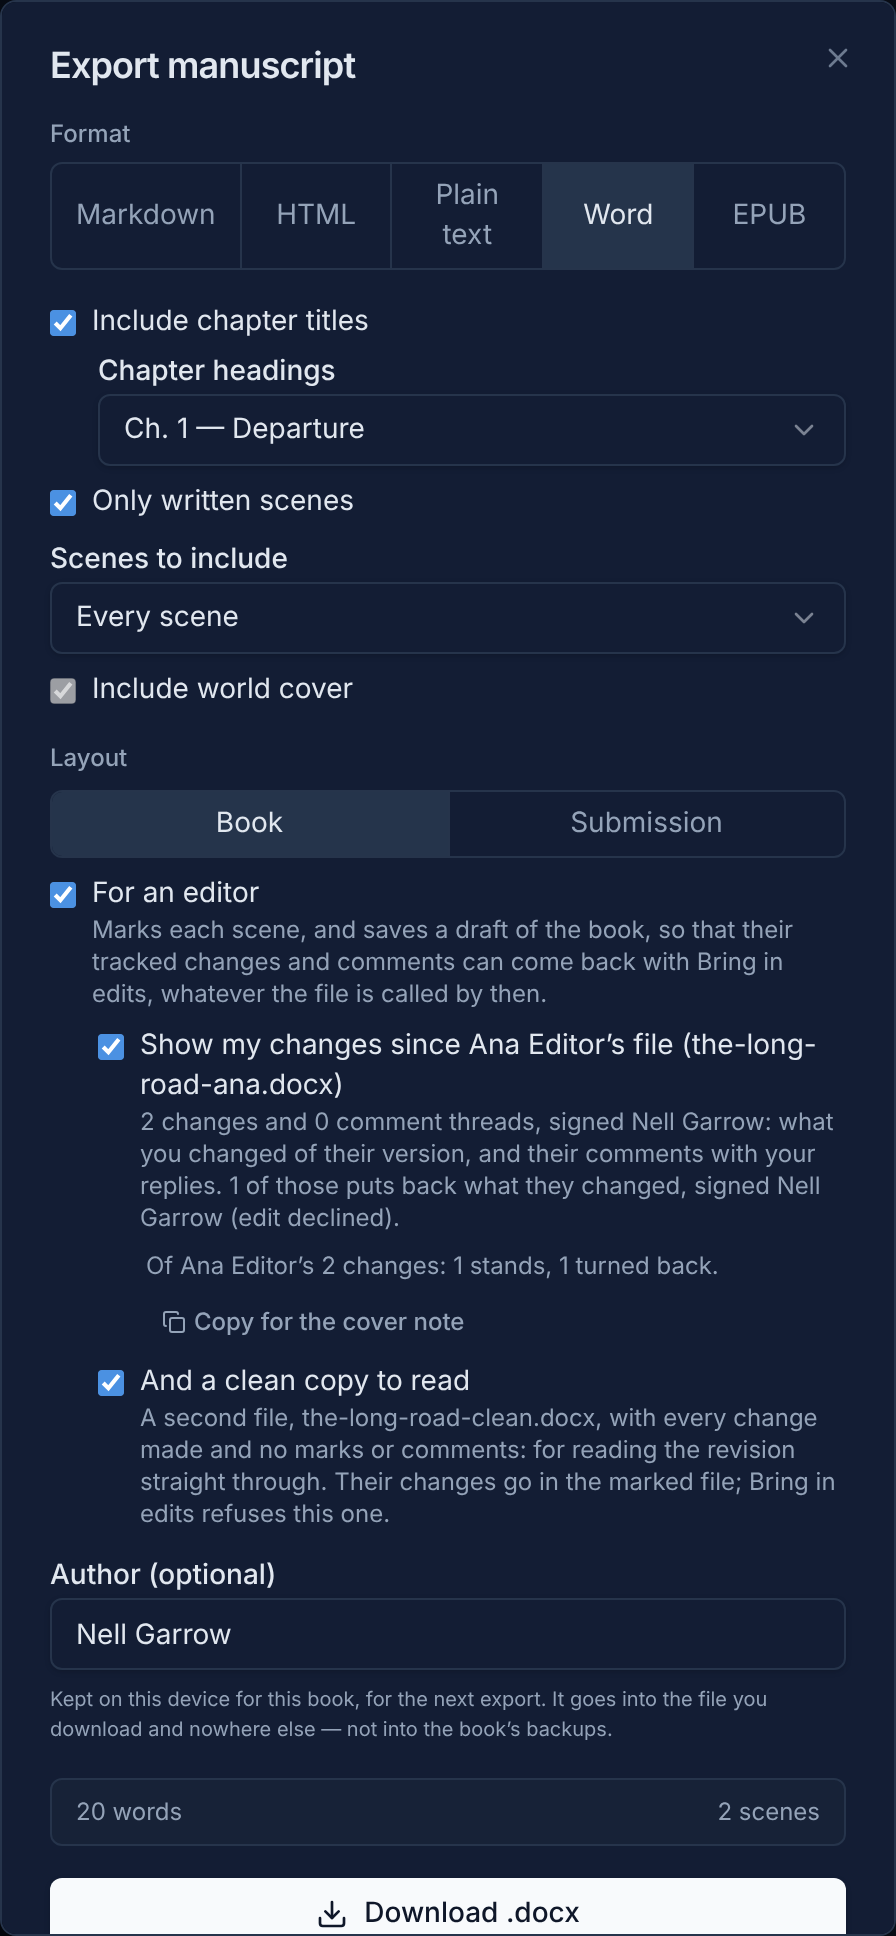
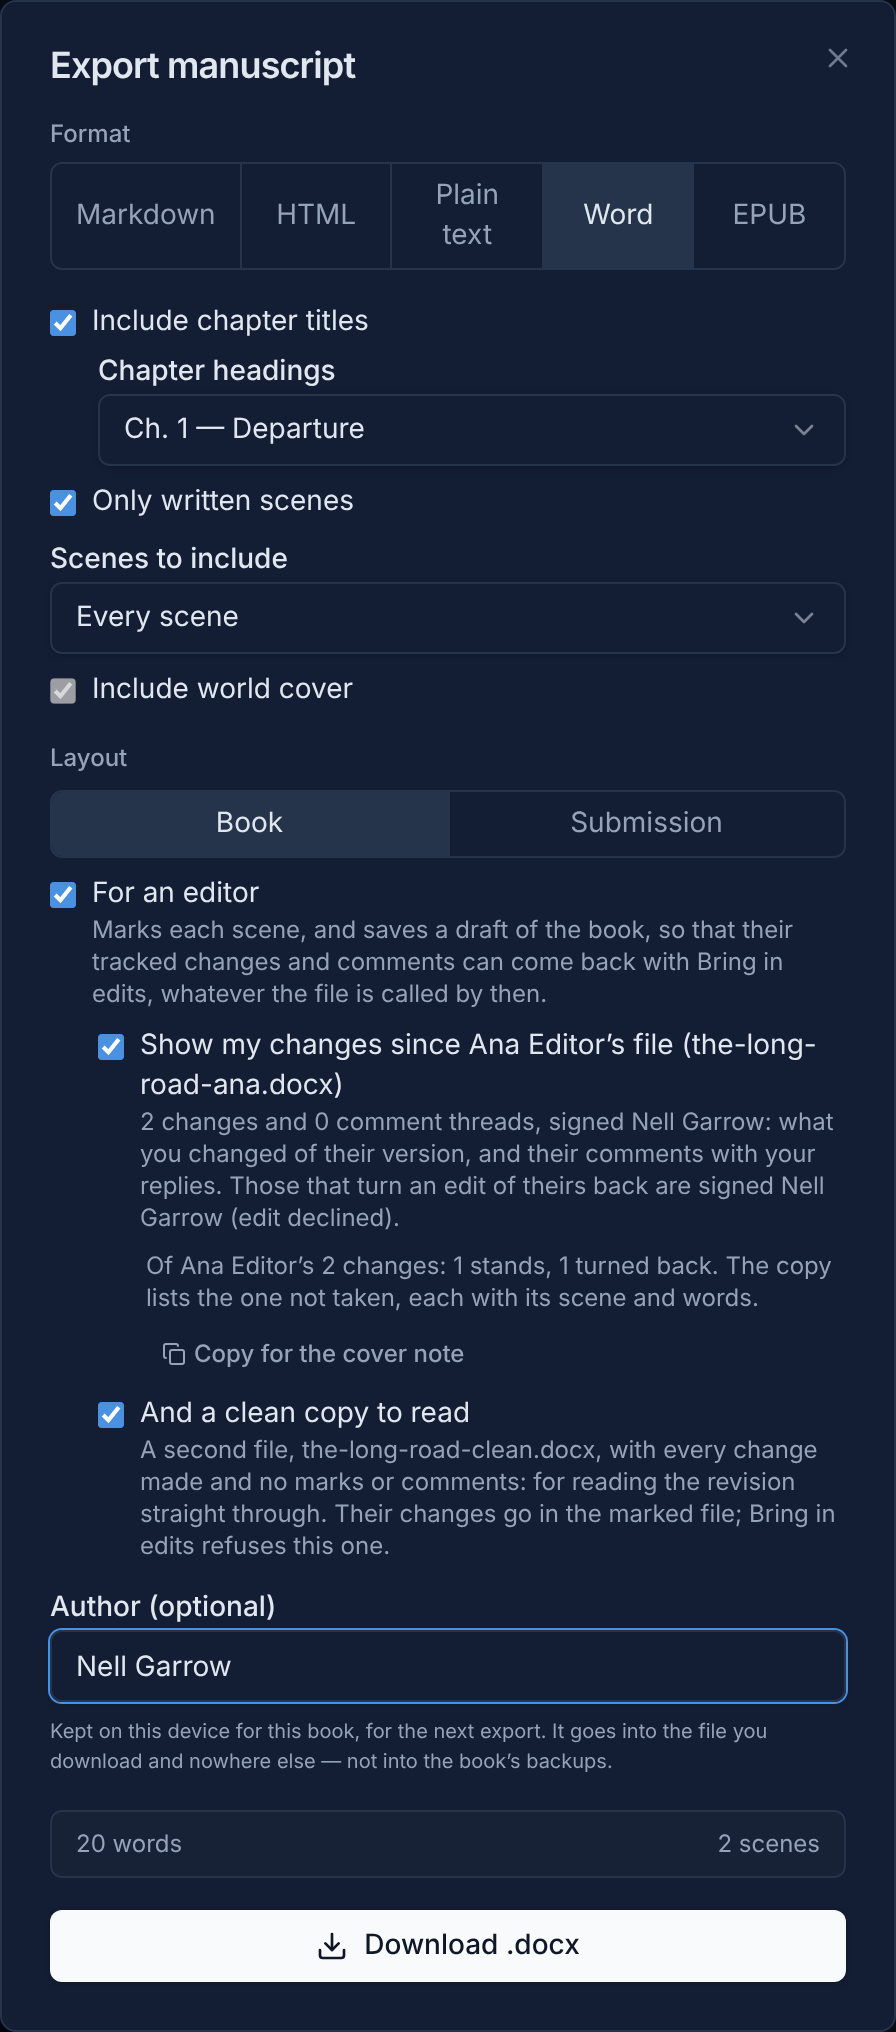
T18: the split counted at its second half; tests, the record, the guide's screenshot
Claude-Session: https://claude.ai/code/session_012HJuZ3q12imk2q9iq8d945

diff --git a/src/lib/__tests__/editorTold.test.ts b/src/lib/__tests__/editorTold.test.ts
@@ -1,14 +1,14 @@
 import { describe, it, expect } from 'vitest'
 import { readFileSync } from 'fs'
 import path from 'path'
-import { changeCount, changeSaid, commentedIn, markDeclined, markedParagraphs, markedPlan, tallyNote, type MarkedParagraph } from '@/lib/markedDocx'
+import { changeCount, changeSaid, commentedIn, hasMarks, markDeclined, markedParagraphs, markedPlan, tallyNote, type MarkedParagraph } from '@/lib/markedDocx'
 import { compileDocx } from '@/lib/manuscriptExport'
 import { readEditedDocx } from '@/lib/docxRead'
 import { docScenes, withChangesMade } from '@/lib/docxEdits'
 import { rendered } from '@/lib/docxImport'
 import { readStoredZip } from '@/lib/zip'
 import type { DraftBook } from '@/lib/bookDraft'
-import type { EditorChange } from '@/types'
+import type { EditorChange, ProseNote } from '@/types'
 
 /*
   What the editor is told of their changes (round-trip-plan-4.md, T18;
@@ -126,6 +126,10 @@ describe('a declined join or split is one change (T18.2)', () => {
     expect(shown(markedParagraphs(`${A} ${B}`, `${A}\n\n${B}`))).toEqual([`same(ins):${A}[del  ]`, `same:${B}`])
     expect(shown(markedParagraphs(`${A}\n\n${B}`, `${A} ${B}`))).toEqual([`same(del):${A}[ins  ]`, `same:${B}`])
     expect(changeCount(markedParagraphs(`${A}\n\n${B}`, `${A} ${B}`))).toBe(1)
+    // Run together with no space between, as a paragraph mark taken out leaves them: the break alone is the change.
+    const bare = markedParagraphs(`${A}${B}`, `${A}\n\n${B}`)
+    expect(shown(bare)).toEqual([`same(ins):${A}`, `same:${B}`])
+    expect([hasMarks(bare), changeCount(bare)]).toEqual([true, 1])
     // Only where the words are as they were: an edit in either half pairs the paragraphs as before.
     expect(markedParagraphs(`${A} ${B}`, `${A}\n\n${B.replace('cold', 'cough')}`).some((p) => p.joins)).toBe(false)
   })
@@ -178,6 +182,15 @@ describe('a declined join or split is one change (T18.2)', () => {
     expect([f.rejected, f.accepted, f.made]).toEqual([`${A} ${B}`, `${A}\n\n${B}`, `${A}\n\n${B}`])
     // In its second half, the break is the change.
     expect((await sent(`${A} ${B}`, `${A}\n\n${B}`, `${A}\n\n${B}`, 'Captain Orrin was not there')).paras.some((p) => p.joins)).toBe(true)
+  })
+
+  it('the dialog counts as the file marks: a declined join with a comment in its first half is two stretches signed as declined', () => {
+    const book = (text: string): DraftBook => ({ version: 1, chapters: [{ id: 'c', number: 1, title: 'C', timelineId: 't', scenes: [{ id: 'e', title: 'S', text }] }] })
+    const note = { id: 'n', worldId: 'W', eventId: 'e', quote: 'did not think about it', prefix: 'first. She ', suffix: '. Her feet', kind: 'note', author: { kind: 'editor', name: 'Ana Editor' }, body: 'Good.', status: 'open', replies: [], createdAt: 0, updatedAt: 0 } as ProseNote
+    const plan = (notes: ProseNote[]) => markedPlan({ sentBack: { id: 'B' }, base: book(`${A} ${B}`), went: book(`${A}\n\n${B}`), scenes: [{ eventId: 'e', text: `${A}\n\n${B}` }], notes, author: 'W', now: 0 })
+    // One change either way, as bringing it in counts; marked as before, its two stretches are each signed.
+    expect([plan([]).changes, plan([note]).changes]).toEqual([1, 1])
+    expect([plan([]).declined, plan([note]).declined]).toEqual([1, 2])
   })
 
   it('commentedIn: a paragraph holding a comment’s words; every paragraph where one has none in the scene, since it goes at the start', () => {

diff --git a/src/lib/__tests__/shapeMarked.test.ts b/src/lib/__tests__/shapeMarked.test.ts
@@ -90,6 +90,15 @@ describe('the book’s shape against the editor’s file (T15)', () => {
     expect(plan.shape).toEqual<ShapeCount>({ chaptersIn: 0, chaptersOut: 0, breaksIn: 0, breaksOut: 1, headings: 0 })
   })
 
+  it('a join after a split, in one scene: the break the join took out goes after the split’s second half, the end of the file’s paragraph (T18.2)', async () => {
+    const base = book([{ ...ninth, scenes: [{ id: 'e1', title: 'One', text: `${A} ${B}` }, { id: 'e2', title: 'Two', text: C }] }])
+    const now = book([{ ...ninth, scenes: [{ id: 'e1', title: 'One', text: [A, B, C].join('\n\n') }] }])
+    const { doc, scenes } = await marked(base, now)
+    const k = doc.paragraphs.findIndex((p) => p.style === 'SceneBreak')
+    expect(plain(doc.paragraphs[k - 1].pieces.map((x) => ('text' in x ? x.text : '')).join(''))).toBe(B)
+    expect(scenes.map((s) => [plain(s.original), plain(s.edited)])).toEqual([[`${A} ${B}\n\n${C}`, [A, B, C].join('\n\n')]])
+  })
+
   it('a book as it was: no line marked, and nothing said', async () => {
     const base = book([ninth, { id: 'c2', number: 2, title: 'Low Water', scenes: [{ id: 'e2', title: 'Two', text: C }, { id: 'e3', title: 'Three', text: B }] }])
     const { lines, plan } = await marked(base, base)

diff --git a/src/lib/manuscriptExport.ts b/src/lib/manuscriptExport.ts
@@ -584,9 +584,9 @@ export function compileDocx(m: BuiltManuscript, opts: BookExportOptions = {}): U
         let fromFile = 0
         paras.forEach((p, k) => {
           const opens = sub && !chapterTitles && n === 0 && i === 0 && k === 0
-          // A split's second half is the same paragraph of the file as its first (T18.2).
-          const secondHalf = paras[k - 1]?.joins && paras[k - 1].breakMark === 'ins'
-          if (p.mark !== 'ins' && !secondHalf) fromFile++
+          // A split's two halves are one paragraph of the file, counted at the second: what follows it in the file follows both (T18.2).
+          const firstHalf = p.joins && p.breakMark === 'ins'
+          if (p.mark !== 'ins' && !firstHalf) fromFile++
           const lines = joins.length && fromFile >= joins[0].after ? shapeOf(joins.shift()!.boundary) : []
           /*
             What a join took out, after this paragraph: its words taken out, and

diff --git a/src/lib/markedDocx.ts b/src/lib/markedDocx.ts
@@ -402,7 +402,7 @@ export function settleBreaks(paras: MarkedParagraph[], commented: (k: number) =>
   for (let k = 0; k < paras.length - 1; k++) {
     const p = paras[k]
     // A paragraph that stands, with its break marked: a new one follows it.
-    if (p.mark !== 'same' || p.breakMark !== 'ins' || p.joins || !commented(k)) continue
+    if (p.mark !== 'same' || p.breakMark !== 'ins' || !commented(k)) continue
     const lastWords = [...p.runs].reverse().find((r) => r.text)
     if (lastWords?.kind === 'ins') continue
     let end = k + 1

diff --git a/docs/records/t18-editor-told.md b/docs/records/t18-editor-told.md
@@ -1,0 +1,140 @@
+# T18: what the editor is told of their changes
+
+**Plan:** `round-trip-plan-4.md`, T18.0, T18.1 (D-14) and T18.2.
+**Findings:** the plan's first expectation, failed three runs running; the seventh of `loop-2026-11-14.md`; the editor's
+F-5 and F-6; the writer's S-6.
+
+## What happened
+
+The third loop's editor got their edits back already accepted into the text, so the file did not say which of them
+stood. To find out, they wrote a classifier that checked each of their 67 edits against the clean copy: **55 stand, 7
+not taken, 5 in passages rewritten since.** The export dialog said other things:
+- **the tally:** *66 changes: 53 stand, 4 turned back, 9 rewritten since*;
+- **the count of marks:** *6 of those put back what they changed*;
+- **the writer's note:** a list of seven changes not taken.
+
+A declined join went out as two changes under two names. The sentence was put in as a new paragraph signed Tamsin
+Hale, and taken out of the joined paragraph signed *(edit declined)*. Reject All then left an empty paragraph.
+
+## T18.0: the measure
+
+Round 2's tally was remade from the run's drafts, one change at a time (`editVerdicts`, which `editTally` now counts).
+Each verdict was then set beside the editor's own list in their round-2 notes. They disagreed in four places:
+
+| Change | The app said | The editor said | Why |
+|---|---|---|---|
+| The Ch5 join, turned back | rewritten since | not taken, declined | `markedParagraphs` wrote the join as two pieces: the first paragraph taken out whole, and its words put into the next. With only a paragraph's opening between the two pieces, the first could not be placed (`sidesIn`: both readings found). |
+| *a thousand times*, *Orrin isn't coming* | rewritten since | not taken, rewritten over | Both say the same thing. In the file the writer's rewrite is signed with her own name, not as declined, so the app's figure is the one the file bears out. |
+| *She did not know why.* cut | rewritten since | stands | The cut words are still gone, but the writer rewrote the sentence after them, touching the cut's place. The app counts the cut together with that rewrite. **Left as it is, and named:** the copy lists it under *rewritten since*, with its words, for the editor to read. |
+| One run in the file, two of the editor's acts | 66 | 67 | Grouping, as in the first loop. |
+
+Round 3 had one more case, and the second loop's round 3 another:
+- **Two spaces put right**, *coat.I* made *coat. I* where a move had left two sentences run together, were read as
+  rewritten. Their words existed only after the move, never in the text as it went. **Now** such a change stands where
+  the book has it exactly as the editor left it, with the words either side.
+- **The second loop's editor split a paragraph**, and the writer later took out the whole paragraph after it. That
+  deletion began on the opening the split put in, so it was read as part of the split. **Now** a change that starts on
+  the opening a change put in counts as beside it. Without this, that round's figure fell from 17 stand to 16.
+
+**After:**
+- **round 2:** 53 stand, 5 turned back, 8 rewritten since. Against the editor's 55, 7 and 5:
+  - turned back: their 5 marked declined;
+  - rewritten since: their 2 rewritten over, their 5 rewritten passages, and the cut above;
+  - stand: two fewer, the cut and the grouping;
+- **round 3:** 24 stand, 3 turned back, 0 rewritten since. The editor counted 23 standing and 3 declined, of 26. The
+  extra change is the move that came in unpaired (T19).
+
+## T18.1: the editor is told (D-14)
+
+**One set of figures.** Where the tally is known, the dialog no longer gives a second count of the file's declined
+marks beside it. It says *Those that turn an edit of theirs back are signed Tamsin Hale (edit declined)*, and the
+tally's own figure is the one count. The file bears it out: round 2 holds 5 changes signed as declined, and round 3
+holds 3, one for each change turned back.
+
+**The copy for the cover note** (`tallyNote`) gives the figures, then each change not taken, in the order of their
+file, with its chapter, scene and words (`changeSaid`), then *Every other change of yours stands as you made it.* A
+change is said in its own words:
+- narrowed to the words that differ, at whole words. Bringing a file in keeps a change together with the words around
+  it, so a cut of *now* is stored as *"her now." made "her."*;
+- as *cut "…"*, *put in "…" after "…"*, *"…" made "…"*, *a new paragraph after "…"*, *two paragraphs joined after
+  "…"*, or *moved "…"*.
+
+The dialog says how many the copy lists. Round 3's copy:
+
+> Of Maren Hollis's 27 changes: 24 stand, 3 turned back.
+>
+> Turned back, each marked in the file and signed Tamsin Hale (edit declined):
+> - Chapter 3, "Coil Lane": cut "then"
+> - Chapter 4, "Below the Weed Line": "the gate" made "it"
+> - Chapter 5, "Cellar Three": cut "He did not look up."
+>
+> Every other change of yours stands as you made it.
+
+## T18.2: a declined join or split is one change
+
+**Where a paragraph on one side is exactly two consecutive paragraphs on the other, joined by a space or by nothing,**
+the change is the paragraph break between them (`MarkedParagraph.joins`):
+- **a split:** the first half's break put in, and the space taken out;
+- **a join:** the break taken out, and the space put in.
+
+Each half's words are written once. Where the change turns the editor's own back, it is signed as declined; where it
+is the writer's own, it is signed with her name. `changeItems` reads the break as the change, so it counts as one in
+the dialog, on the way in, and in the tally. Any edit inside either half takes the paragraphs back to being paired as
+before.
+
+**With a comment in its first half**, the change is marked as before: the paragraph put in or taken out whole. In
+LibreOffice, Reject All restores the space but keeps the break when the paragraph whose break is marked holds a
+comment. The probe found it in all four cases: a split and a join, each declined and each the writer's own. This is the
+same LibreOffice behaviour T8.4 found for a paragraph put in after a commented one. A comment in the second half is
+fine.
+
+`commentedIn` tells the export which paragraphs hold a comment, by its words. Where any of a scene's comments has
+no words to sit on, it goes at the scene's start, so every paragraph of that scene counts as holding one. The marked
+plan reads it the same way, so the dialog's count and the file's agree.
+
+**In the old form, both marks are signed as declined.** The paragraph put back whole used to be signed with the
+writer's name. Only a paragraph's opening stood between it and the words taken out of the next paragraph, too few to
+place it. `sidesIn` now runs the words after a change on through the change that follows, as it already ran the words
+before back through the change before.
+
+## LibreOffice (`npm run probe:marked`)
+
+Nine cases added:
+- **declined-join**, **declined-split**, **own-split** and **own-join**;
+- each of the four with a comment in its first half;
+- a split with a comment in its second half.
+
+**63 of 68 read right every way:** Reject All gives the editor's file, Accept All the book, and a file saved by
+LibreOffice reads the same way in the app. The five `NO` are the ones T15 recorded. All nine new cases read right.
+
+## Tests
+
+- **`editorTold.test.ts`:**
+  - round 2's figures, with each change not taken named against the editor's classifier;
+  - round 3's figures, and its copy for the cover note, word for word;
+  - the file's declined changes counted equal to those turned back, in both rounds;
+  - `tallyNote`; `changeSaid`, its narrowing, and where it stops;
+  - a split and a join as a break; a declined join and split each read back from the file rejected, accepted and with
+    the writer's changes made, the sentence once and no mark in her plain name;
+  - a split of the writer's own;
+  - the commented fallback, both marks signed as declined; `commentedIn`;
+  - round 2's Ch5 join as one paragraph, its break declined.
+  - a split with no space between its halves; the dialog's declined count with a comment in the first half, two
+    stretches as the file has them;
+- **`shapeMarked.test.ts`**: a join of scenes after a split, in one scene: the break the join took out goes after the
+  split's second half, where the editor's paragraph ends.
+- **`markedDocx.test.ts`**: the T8.1 split case now has an edit in it, since an exact split is a break.
+- **`splitMarked.test.ts`**: round 2 counts 51 changes, from 52, and its tally is 53, 5 and 8.
+- **`markedRunFiles.test.ts`**: unchanged, and holds the second loop's round 3 at 17 stand.
+- **`wordRoundTrip.spec.ts`**, in the app: the dialog's one set of figures, and the copy holding the change not taken
+  with its scene and words.
+
+**Mutants**, in a separate worktree, gated on `tsc && eslint && echo MUTANT-OK && grep`. RESULTS
+
+## Not done here
+
+- **The cut followed by a rewrite** (*She did not know why.*) is counted rewritten since, against the editor's
+  *stands*. The copy names it.
+- **A move that came in unpaired** (T19) counts as three changes, not one.
+- **The copy is in the writer's voice**, for her to paste into a cover note as it stands. The figures and the list are
+  the writer's to edit.

diff --git a/docs/records/round-trip-plan-4.md b/docs/records/round-trip-plan-4.md
@@ -281,6 +281,14 @@ in the copy, and each borne out by the file: every *turned back* is a change sig
 Turning back a join puts the paragraph mark back, tracked, signed *(edit declined)*: one change, the sentence once.
 The same for a split. Reject All leaves no empty paragraph, in LibreOffice too.
 
+- *As built, T18 (`t18-editor-told.md`):* measured change by change, round 2 now reads 53 stand, 5 turned back, 8
+  rewritten since, and round 3 24, 3 and 0. Each disagreement with the editor's classifier is named. The editor's join
+  is read as the break taken out, a change made on a move as standing, and a paragraph taken out after a split as
+  beside it. The dialog gives the tally as its one count, and the copy for the cover note lists each change not
+  taken, with its chapter, scene and words. A split or join whose words are as they were is one change, the break,
+  signed as declined where it turns the editor's back. Where its first half holds a comment it is marked as before,
+  because LibreOffice keeps a break marked there. 63 of 68 probe cases read right, all nine new ones among them.
+
 ---
 
 ## T19: bringing in a move

diff --git a/docs/GUIDE.md b/docs/GUIDE.md
@@ -2827,7 +2827,7 @@ every change made and no marks, comments or bookmarks. It is for reading the
 revision straight through. Their changes go in the marked file: **Bring in
 edits** refuses the clean copy, and says which file to bring instead.
 
-![Export for an editor, with the changes since the editor's file to go back marked, how many, how many put back an edit of theirs, and what became of their changes](images/135-marked-back.png)
+![Export for an editor, with the changes since the editor's file to go back marked, how many, and what became of their changes, the copy for the cover note listing those not taken](images/135-marked-back.png)
 
 ![A marked file opened in LibreOffice: a word replaced and a paragraph put in, as tracked changes](images/137-marked-in-libreoffice.png)
 
